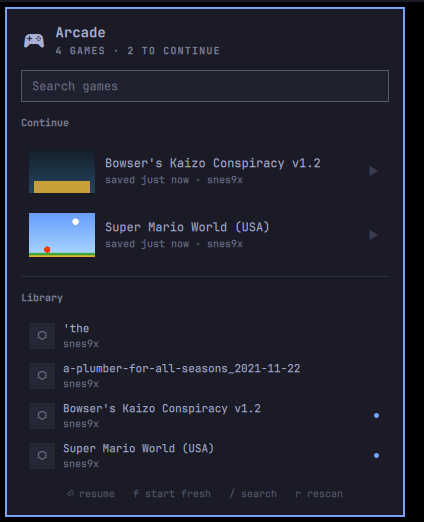
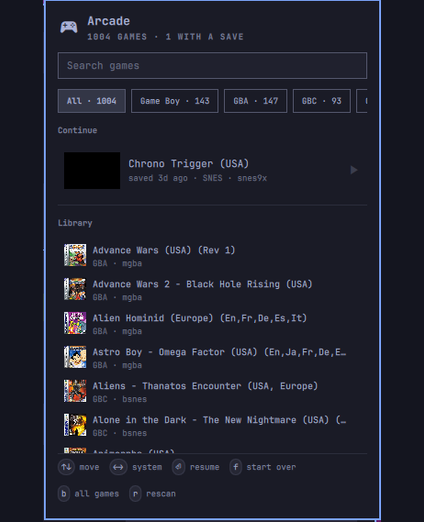
Refresh Arcade previews

diff --git a/README.md b/README.md
@@ -83,6 +83,8 @@ and the more detailed
 [playlists and thumbnails guide](https://docs.libretro.com/guides/roms-playlists-thumbnails/#thumbnails).
 
 Return to Arcade and press `r` to refresh after RetroArch finishes.
+From the bar panel, press `b` to bring up the desktop overlay; right-clicking
+the Arcade bar icon opens it directly.
 
 Optionally bind them. In `~/.config/hypr/bindings.conf`:
 
